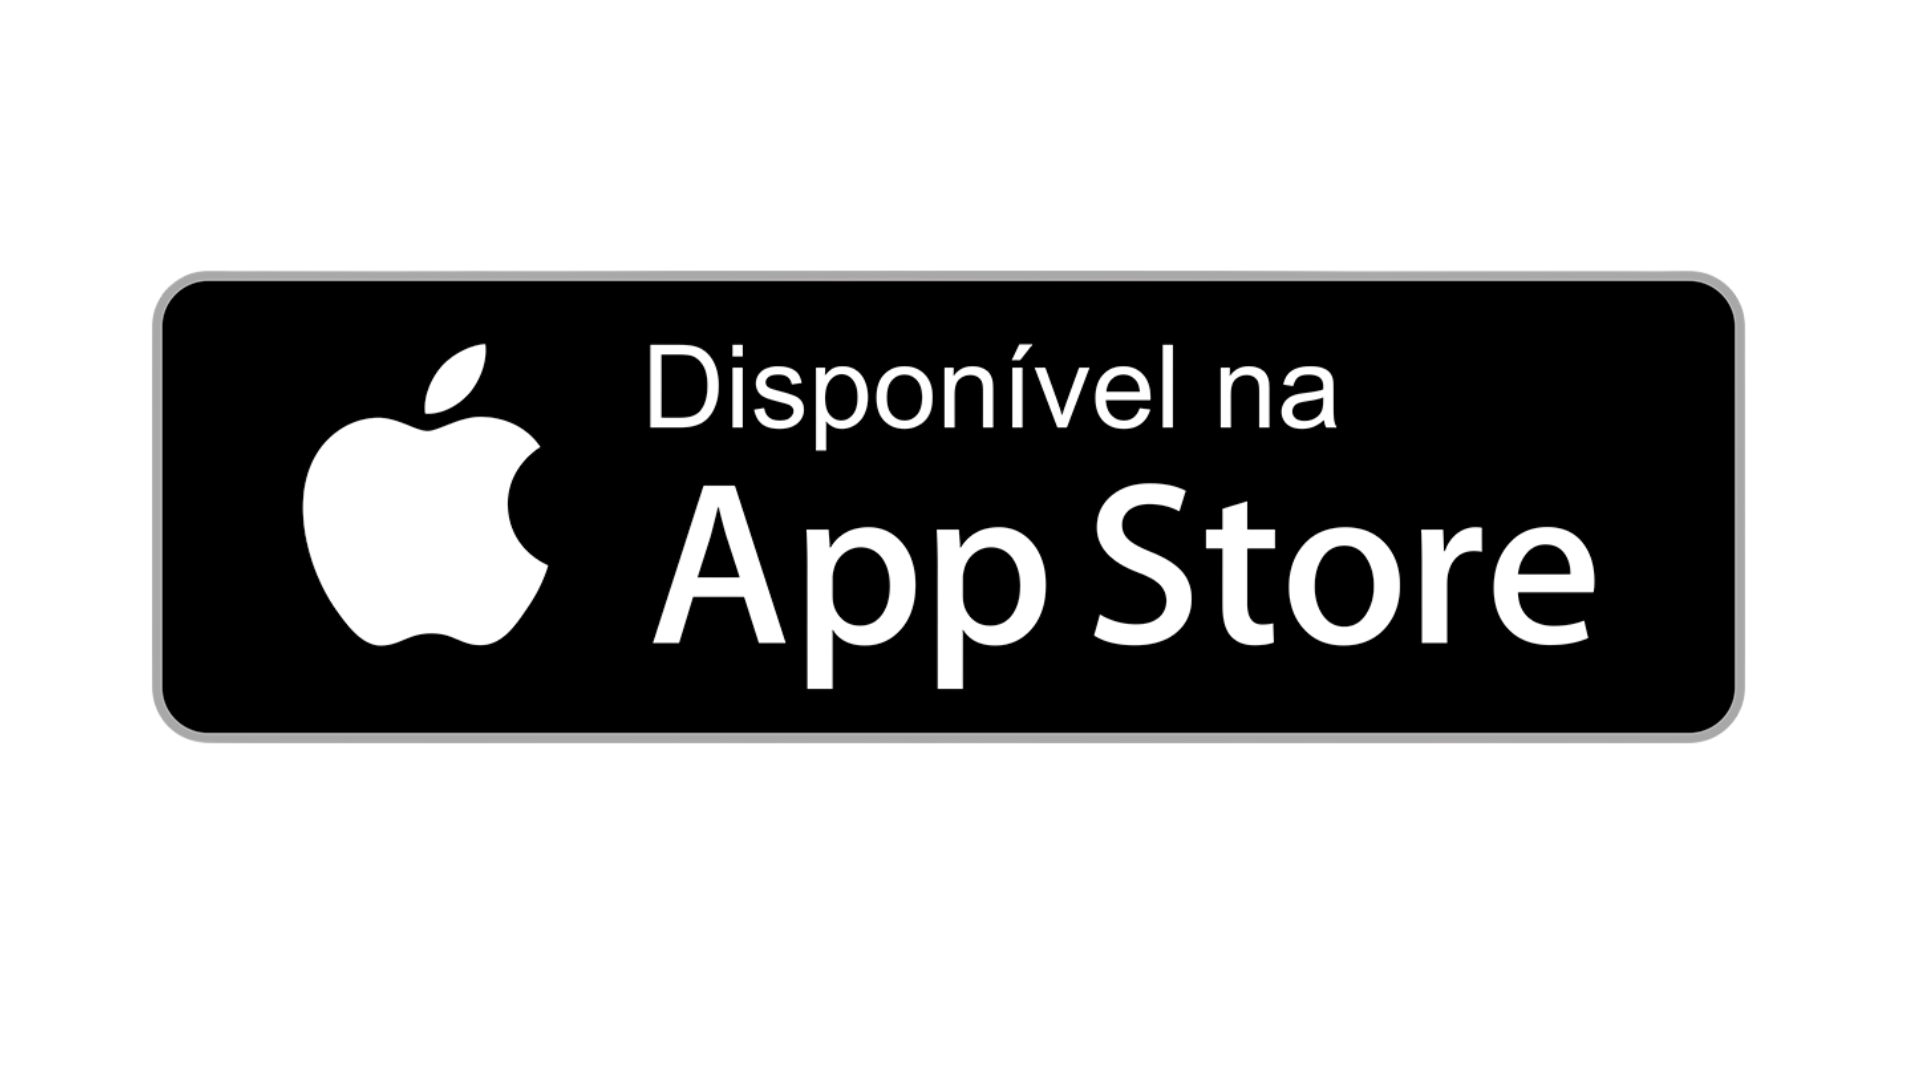
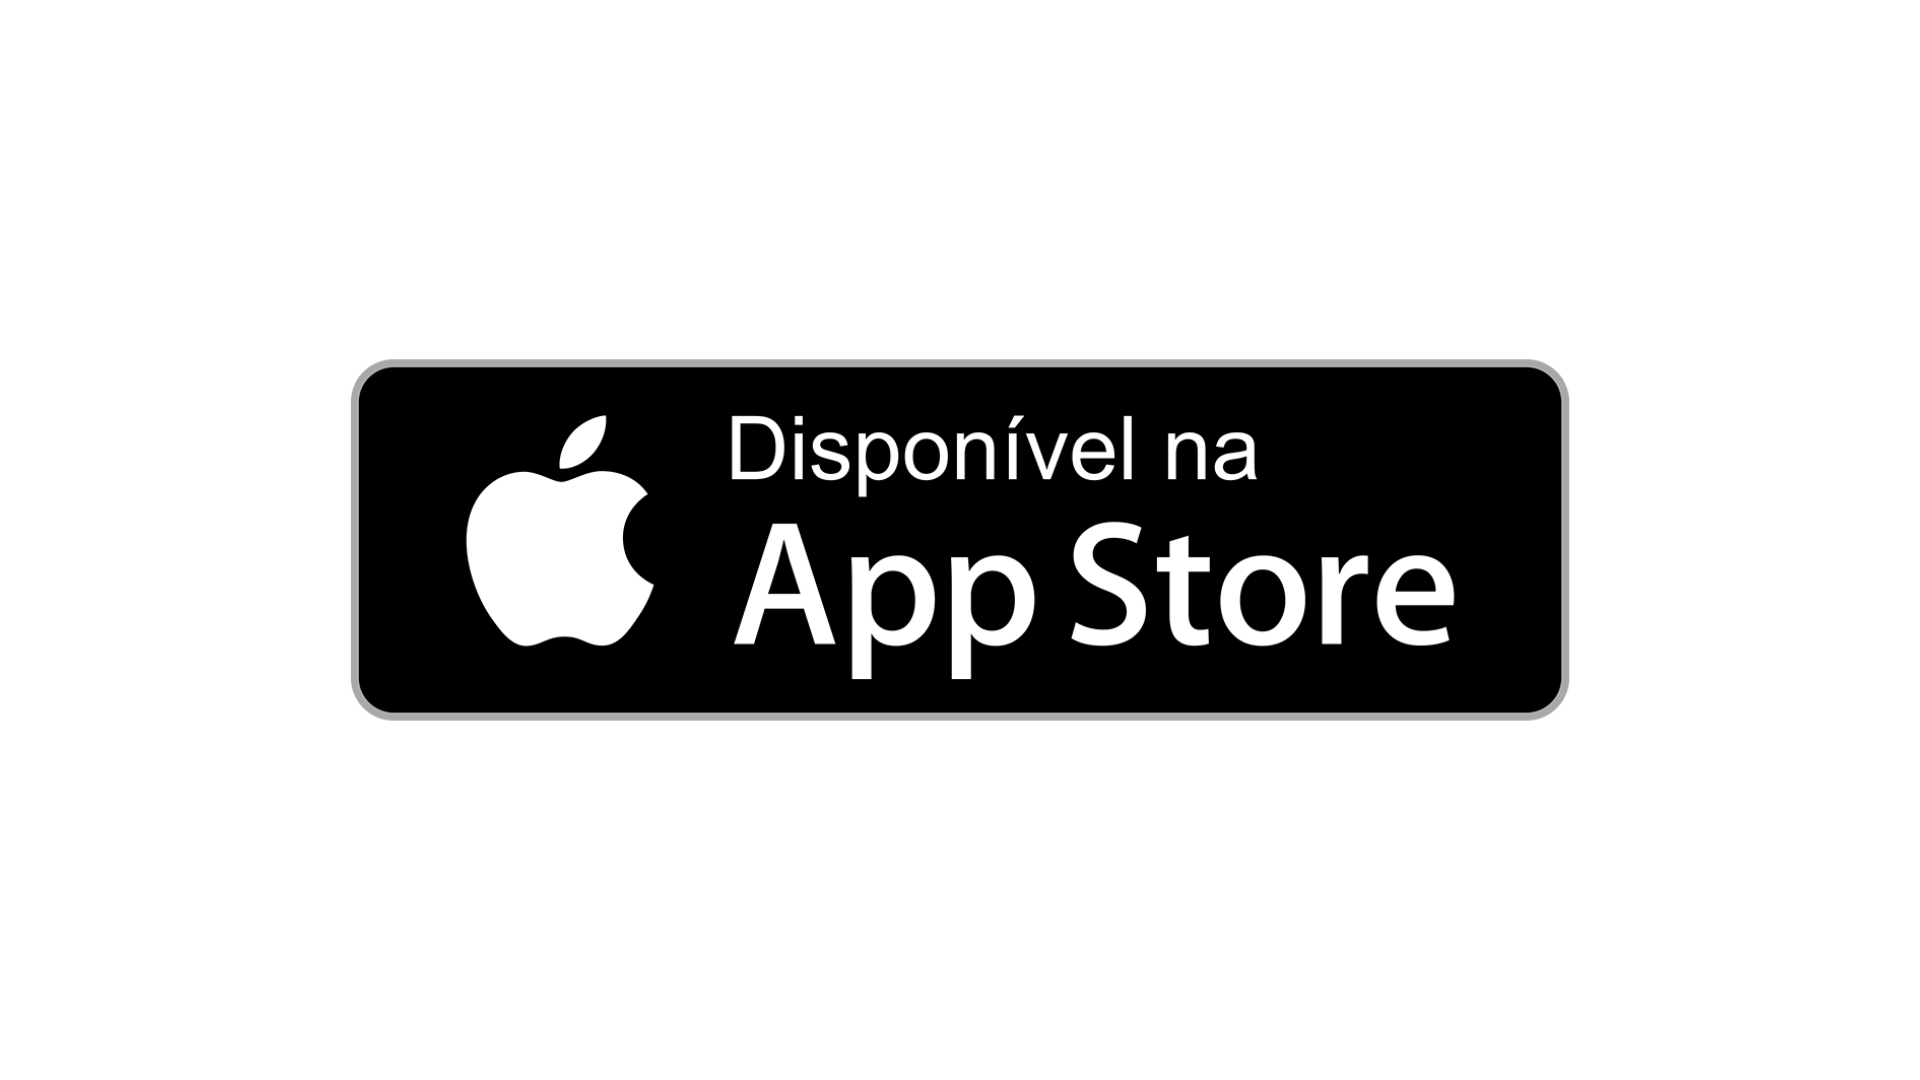
Alterando modo dark e imagem da app store

Changed region(s): [[0.0625, 0.2444, 0.9062, 0.7028]]

diff --git a/src/components/AppStore/AppStore.tsx b/src/components/AppStore/AppStore.tsx
@@ -5,7 +5,7 @@ import Gif from "../../assets/mobile_bike.gif";
 const AppStore = () => {
   return (
     <>
-      <div className="bg-gray-100 dark:bg-gray-800 py-14">
+      <div className="bg-gray-100 dark:bg-gray-900 py-14">
         <div className="container">
           <div className="grid sm:grid-cols-2 grid-cols-1 items-center gap-4">
             <div
@@ -28,7 +28,7 @@ const AppStore = () => {
                   <img
                     src={AppStoreImg}
                     alt="App store"
-                    className="max-w-[180px] sm:max-w-[180px] md:max-w-[182px] w-full transition-transform transform hover:scale-110"
+                    className="max-w-[180px] sm:max-w-[180px] md:max-w-[245px] w-full transition-transform transform hover:scale-110 "
                   />
                 </a>
               </div>

diff --git a/src/pages/Categories.tsx b/src/pages/Categories.tsx
@@ -53,7 +53,7 @@ const Categories = () => {
   return (
     <div
       ref={sectionRef}
-      className={`w-full bg-gray-100 dark:bg-gray-900 py-20 flex flex-col items-center transition-all duration-1000 ${
+      className={`w-full bg-gray-100 dark:bg-gray-950 py-20 flex flex-col items-center transition-all duration-1000 ${
         isVisible ? "opacity-100 translate-y-0" : "opacity-0 translate-y-20"
       }`}
     >
@@ -78,7 +78,7 @@ const Categories = () => {
                   alt={category.name}
                   className="w-24 h-24 object-cover"
                 />
-                <p className="mt-3 text-xl font-semibold ">{category.name}</p>
+                <p className="mt-3 text-xl font-semibold dark:text-black">{category.name}</p>
               </div>
             ))}
           </div>

diff --git a/src/components/Avaliacoes/Avaliacoes.tsx b/src/components/Avaliacoes/Avaliacoes.tsx
@@ -37,7 +37,7 @@ const Testimonial = () => {
   };
   return (
     <>
-      <div data-aos="fade-up" data-aos-duration="300" className="py-10">
+      <div data-aos="fade-up" data-aos-duration="300" className="py-10 dark:bg-gray-950">
         <div className="container">
           <div className="text-center mb-20 max-w-[400px] mx-auto">
             <p className="text-sm bg-clip-text text-transparent bg-gradient-to-r from-green-600 to-verde font-bold">

diff --git a/src/components/Sobre/Sobre.tsx b/src/components/Sobre/Sobre.tsx
@@ -16,8 +16,8 @@ const Banner = () => {
   };
   return (
     <>
-      <div className="min-h-[550px]">
-        <div className="min-h-[550px] flex justify-center items-center backdrop-blur-xl py-12 sm:py-0 ">
+      <div className="min-h-[550px] ">
+        <div className="dark:bg-gray-950 min-h-[550px] flex justify-center items-center backdrop-blur-xl py-12 sm:py-0 ">
           <div
             data-aos="slide-up"
             data-aos-duration="300"

diff --git a/src/components/Footer/Footer.tsx b/src/components/Footer/Footer.tsx
@@ -12,7 +12,7 @@ const Footer = () => {
   const data = new Date().getFullYear()
 
   return (
-    <div className="bg-green-50 dark:bg-gray-950">
+    <div className="bg-green-50 dark:bg-gray-900">
       <section className="max-w-[1200px] mx-auto">
         <div className=" grid md:grid-cols-3 py-5">
           <div className=" py-8 px-4 ">
